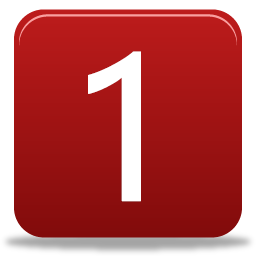
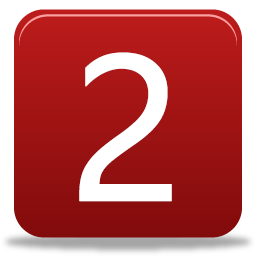
fix #4,5, 6, 7, 8, 10, 12

Changed region(s): [[0.2812, 0.1875, 0.6875, 0.8125]]

diff --git a/src/app/components/home/home.component.html b/src/app/components/home/home.component.html
@@ -40,6 +40,7 @@
         <div class="menu d-flex flex-wrap justify-content-center">
           <img id='btn-deviation' class="menu-img" src="assets/btn-deviation1.png" (click)="toggleDeviationMarker()">
           <img id='btn-footer' class="menu-img" src="assets/foot-left1.png" (click)="toggleFootMarker()">
+          <img id='btn-guideline' class="menu-img" src="assets/btn-guideline1.png" (click)="toggleGuideLine()">
         </div>
       </div>
 
@@ -53,27 +54,27 @@
 
           <div class="source-wrapper d-flex flex-column align-items-center">
             <div class="source mx-auto position-relative">
-              <img id="snapshots0" class="capture position-absolute" src="{{snapshots[3]}}">
+              <img id="snapshots3" class="capture position-absolute" src="assets/foot-background.png">
               <!-- <div id="camdemo" class="position-absolute" style="text-align: center; margin: 0 auto;"></div> -->
-              <img class="frame position-absolute" src="assets/source-background.png" (click)="onSelectSnapshot(0)">
+              <img class="frame position-absolute" src="assets/source-background.png" (click)="onSelectSnapshot(3)">
             </div>
             <span class="mt-1">Back, standing straight</span>
           </div>
 
           <div class="source-wrapper d-flex flex-column align-items-center">
             <div class="source mx-auto position-relative">
-              <img id="snapshots1" class="capture position-absolute" src="{{snapshots[4]}}">
+              <img id="snapshots4" class="capture position-absolute" src="assets/foot-background.png">
               <!-- <div id="camdemo" class="position-absolute" style="text-align: center; margin: 0 auto;"></div> -->
-              <img class="frame position-absolute" src="assets/source-background.png" (click)="onSelectSnapshot(1)">
+              <img class="frame position-absolute" src="assets/source-background.png" (click)="onSelectSnapshot(4)">
             </div>
             <span class="mt-1">Back, Kness Bent 45°</span>
           </div>
 
           <div class="source-wrapper d-flex flex-column align-items-center">
             <div class="source mx-auto position-relative">
-              <img id="snapshots2" class="capture position-absolute" src="{{snapshots[5]}}">
+              <img id="snapshots5" class="capture position-absolute" src="assets/foot-background.png">
               <!-- <div id="camdemo" class="position-absolute" style="text-align: center; margin: 0 auto;"></div> -->
-              <img class="frame position-absolute" src="assets/source-background.png" (click)="onSelectSnapshot(2)">
+              <img class="frame position-absolute" src="assets/source-background.png" (click)="onSelectSnapshot(5)">
             </div>
             <span class="mt-1">Back, raise toes up</span>
           </div>            
@@ -84,13 +85,28 @@
         <img id="main-board" src="assets/foot-background.png">
         <div id="camdemo" class="position-absolute d-flex" style="text-align: center; margin: 0 auto;"></div>
         <canvas id="line-board" class="position-absolute" width="800" height="600" (click)="setMarkerPosition($event)"></canvas>
+        <div ngDraggable #block="ngDraggable" id="t-line" class="guideline-top position-absolute" [ngDraggable] = "!isVisibleDeviationMarker" [bounds]="board" [inBounds]="inBounds" (edge)="checkEdge($event)" [preventDefaultEvent]="true">
+          <img src="assets/line1.png">
+        </div>
+        <div ngDraggable #block="ngDraggable" id="b-line" class="guideline-bottom position-absolute" [ngDraggable] = "!isVisibleDeviationMarker" [bounds]="board" [inBounds]="inBounds" (edge)="checkEdge($event)" [preventDefaultEvent]="true">
+          <img src="assets/line1.png">
+        </div>
+        <div ngDraggable #block="ngDraggable" id="l-line" class="guideline-left position-absolute" [ngDraggable] = "!isVisibleDeviationMarker" [bounds]="board" [inBounds]="inBounds"  (edge)="checkEdge($event)" [preventDefaultEvent]="true">
+          <img src="assets/line2.png">
+        </div>
+        <div ngDraggable #block="ngDraggable" id="r-line" class="guideline-right position-absolute" [ngDraggable] = "!isVisibleDeviationMarker" [bounds]="board" [inBounds]="inBounds" (edge)="checkEdge($event)" [preventDefaultEvent]="true">
+          <img src="assets/line2.png">
+        </div>
         <img id="savefile" class="btn-capture position-absolute" src="assets/btn-camera.png" (click)="captureImage()">
-        <img id="foot-marker" class="foot-marker position-absolute" src="assets/foot-marker.png" [ngStyle]="setFootMarker()">
-        <img id="deviation-marker" class="deviation-marker position-absolute" src="assets/deviation-marker.png" [ngStyle]="setDeviationMarker()">
-        <!-- <div ngDraggable #block="ngDraggable" class="foot-marker position-absolute" [ngDraggable] = "!isVisibleDeviationMarker" [bounds]="board" [inBounds]="inBounds" [ngStyle]="setFootMarker()" (edge)="checkEdge($event)" (started)="onFootMarkerStart($event)" (stopped)="onFootMarkerStop($event)" (movingOffset)="onFootMarkerMoving($event)"
-        [preventDefaultEvent]="true" (endOffset)="onFootMarkerMoveEnd($event)">
-          <img class="foot-marker " src="{{footmarker}}">
-        </div> -->
+        <img id="foot-marker" class="foot-marker position-absolute" src="assets/foot-marker.png">
+        <img id="deviation-marker" class="deviation-marker position-absolute" src="assets/deviation-marker.png">
+        <img id="remove" class="remove position-absolute" src="assets/btn-remove.png" (click) = "removeImage()">
+        <img id="num" class="num position-absolute" src="assets/num0.png">
+        <img id="valid" class="valid position-absolute" src="assets/invalid.png">
+        <div id="alert-message" class="alert-message position-absolute text-center">
+          <span>All required image captured.</span>
+          <span>please select image to continue!</span>
+        </div>        
       </div>
 
       <div class="right position-relative col-md-2 m-0 p-0">
@@ -99,9 +115,9 @@
 
           <div class="source-wrapper d-flex flex-column align-items-center">
             <div class="source mx-auto position-relative">
-              <img id="snapshots3" class="capture position-absolute" src="{{snapshots[0]}}">
+              <img id="snapshots0" class="capture position-absolute" src="assets/foot-background.png">
               <!-- <div id="camdemo" class="position-absolute" style="text-align: center; margin: 0 auto;"></div> -->
-              <img class="frame position-absolute" src="assets/source-background.png" (click)="onSelectSnapshot(3)">
+              <img class="frame position-absolute" src="assets/source-background.png" (click)="onSelectSnapshot(0)">
               
             </div>
             <span class="mt-1">Back, standing straight</span>
@@ -109,18 +125,18 @@
 
           <div class="source-wrapper d-flex flex-column align-items-center">
             <div class="source mx-auto position-relative">
-              <img id="snapshots4" class="capture position-absolute" src="{{snapshots[1]}}">
+              <img id="snapshots1" class="capture position-absolute" src="assets/foot-background.png">
               <!-- <div id="camdemo" class="position-absolute" style="text-align: center; margin: 0 auto;"></div> -->
-              <img class="frame position-absolute" src="assets/source-background.png" (click)="onSelectSnapshot(4)">
+              <img class="frame position-absolute" src="assets/source-background.png" (click)="onSelectSnapshot(1)">
             </div>
             <span class="mt-1">Back, Kness Bent 45°</span>
           </div>
 
           <div class="source-wrapper d-flex flex-column align-items-center">
             <div class="source mx-auto position-relative">
-              <img id="snapshots5" class="capture position-absolute" src="{{snapshots[2]}}">
+              <img id="snapshots2" class="capture position-absolute" src="assets/foot-background.png">
               <!-- <div id="camdemo" class="position-absolute" style="text-align: center; margin: 0 auto;"></div> -->
-              <img class="frame position-absolute" src="assets/source-background.png" (click)="onSelectSnapshot(5)">
+              <img class="frame position-absolute" src="assets/source-background.png" (click)="onSelectSnapshot(2)">
             </div>
             <span class="mt-1">Back, raise toes up</span>
           </div>            

diff --git a/src/index.html b/src/index.html
@@ -24,6 +24,8 @@
     var context = null;
     var isVisibleDeviationLine = false;
     var activeDeviationMarker = false;
+    var isVisibleGuideLine = false;
+    var selectedIndex = -1;
     var points = [
       {
         x: 400,
@@ -37,6 +39,23 @@
         x: 400,
         y: 300
       }
+    ]
+    var isPicture = [
+      false,
+      false,
+      false,
+      false,
+      false,
+      false,      
+    ];
+
+    var fileNames = [
+      '',
+      '',
+      '',
+      '',
+      '',
+      ''
     ]
 
     function exitApp() {
@@ -67,6 +86,7 @@
       if (!activeDeviationMarker) {
         clearCanvas();
         document.getElementById("deviation-marker").style.display = 'none';
+        document.getElementById('valid').style.display = 'none';
       }
     }
 
@@ -74,6 +94,23 @@
       isVisibleDeviationLine = !isVisibleDeviationLine;
       document.getElementById("btn-footer").src = isVisibleDeviationLine ? 'assets/foot-left.png' : 'assets/foot-left1.png';
       document.getElementById("foot-marker").src = isVisibleDeviationLine ? 'assets/foot-marker1.png' : 'assets/foot-marker.png';
+    }
+
+    function toggleGuideLine () {
+      isVisibleGuideLine = !isVisibleGuideLine;
+      if (isVisibleGuideLine) {
+        document.getElementById('btn-guideline').src = 'assets/btn-guideline.png';
+        document.getElementById('t-line').style.display = 'block';
+        document.getElementById('b-line').style.display = 'block';
+        document.getElementById('l-line').style.display = 'block';
+        document.getElementById('r-line').style.display = 'block';
+      } else {
+        document.getElementById('btn-guideline').src = 'assets/btn-guideline1.png';
+        document.getElementById('t-line').style.display = 'none';
+        document.getElementById('b-line').style.display = 'none';
+        document.getElementById('l-line').style.display = 'none';
+        document.getElementById('r-line').style.display = 'none';
+      }
     }
 
     function setMarkerPosition (x, y) {
@@ -111,11 +148,14 @@
           });
           WebCamera.attach('#camdemo');
           document.getElementById('savefile').style.display = 'block';
+          document.getElementById('num').style.display = 'flex';
+          document.getElementById('num').src = 'assets/num' + index + '.png'
           console.log("The camera has been started");
         }else{
           enabled = false;
           WebCamera.reset();
           document.getElementById('savefile').style.display = 'none';
+          document.getElementById('num').style.display = 'none';
           console.log("The camera has been disabled");
         }
       }
@@ -136,8 +176,27 @@
 
     function onSelectSnapshot(snapshotIndex) {
       if (!enabled) {
+        document.getElementById('alert-message').style.display = 'none';
         document.getElementById("main-board").src= document.getElementById("snapshots"+snapshotIndex).src;
+        document.getElementById('num').style.display = 'flex';
+        document.getElementById('num').src = 'assets/num' + snapshotIndex + '.png'
+        document.getElementById('remove').style.display = isPicture[snapshotIndex] ? 'block' : 'none';
+        selectedIndex = isPicture[snapshotIndex] ? snapshotIndex : -1;
       }
+    }
+
+    function removeImage() {
+      var filePath = path.join('snapshots');
+      var fileName = fileNames[selectedIndex];
+      if (fs.existsSync(filePath)) {
+        fs.unlink(fileName, function(err) {
+          if (err) console.log(err);
+          fileNames[selectedIndex] = '';
+          isPicture[selectedIndex] = false;
+          document.getElementById("snapshots"+selectedIndex).src = 'assets/foot-background.png';
+          onSelectSnapshot(selectedIndex);
+        });
+      };
     }
 
     function newAnalysis() {
@@ -181,13 +240,16 @@
                   console.log("Cannot save the file :'( time to cry !");
                 }else{
                   console.log("Image saved succesfully");
+                  fileNames[index] = fileName;
                   document.getElementById("snapshots"+index).src= 'file:///'+fileName;
+                  isPicture[index] = true;
                   index++;
                   if (index === 6) {
                     if (enabled) {
                       enabled = false;
                       WebCamera.reset();
                       document.getElementById('savefile').style.display = 'none';
+                      document.getElementById('alert-message').style.display = 'flex';
                       console.log("The camera has been disabled");
                     }
                   }
@@ -210,7 +272,6 @@
     }
 
     function drwaline() {
-      console.log('draw');
       clearCanvas();
       context.strokeStyle = '#000000';
       // context.lineWidth = 1;
@@ -224,7 +285,9 @@
       var x = points[2].x - points[1].x;
       var y = points[1].y - points[2].y;
       var degrees = Math.atan(x/y) * 180 / Math.PI;
-      document.getElementById("deviation-marker").src = (degrees > 10 || degrees < -10) ? 'assets/deviation-marker.png' : 'assets/deviation-marker1.png';
+      document.getElementById('valid').style.display = 'block';
+      document.getElementById('deviation-marker').src = (degrees > 10 || degrees < -10) ? 'assets/deviation-marker.png' : 'assets/deviation-marker1.png';
+      document.getElementById('valid').src = (degrees > 10 || degrees < -10) ? 'assets/invalid.png' : 'assets/valid.png';
 
       document.getElementById('rightdev').innerText = degrees.toFixed(2) + '°';
       document.getElementById('leftdev').innerText = (-degrees).toFixed(2) + '°';

diff --git a/src/app/components/home/home.component.scss b/src/app/components/home/home.component.scss
@@ -99,6 +99,50 @@
           width: 800px;
           height: 600px;
         }
+        .guideline-right{
+          display: none;
+          width: 20px;
+          height: 600px;
+          right: 0;
+          top: 0;
+          img{
+            width: 100%;
+            height: 100%;
+          }
+        }
+        .guideline-left{
+          display: none;
+          width: 20px;
+          height: 600px;
+          left: 0;
+          top: 0;
+          img{
+            width: 100%;
+            height: 100%;
+          }
+        }
+        .guideline-top{
+          display: none;
+          width: 800px;
+          height: 20px;
+          left: 0;
+          top: 0;
+          img{
+            width: 100%;
+            height: 100%;
+          }
+        }
+        .guideline-bottom{
+          display: none;
+          width: 800px;
+          height: 20px;
+          left: 0;
+          bottom: 0;
+          img{
+            width: 100%;
+            height: 100%;
+          }
+        }
         .btn-capture{
           width: 80px;
           height: 80px;
@@ -118,6 +162,42 @@
           top: calc(50% - 40px);
           left: calc(50% - 40px);
           display: none;
+        }
+        .remove {
+          width: 70px;
+          height: 70px;
+          right: 0;
+          top: calc(50% - 35px);
+          display: none;
+        }
+        .valid{
+          width: 70px;
+          height: 70px;
+          bottom: 0;
+          left: 0;
+          display: none;
+        }
+        .num{
+          width: 70px;
+          height: 70px;
+          bottom: 0;
+          right: 0;
+          display: none;
+        }
+        .alert-message {
+          width: 100%;
+          height: 100%;
+          top: 0;
+          left: 0;
+          background-color: #000;
+          display: none;
+          flex-direction: column;
+          justify-content: center;
+          span{
+            color: #fff;
+            font-size: 25px;
+            font-weight: 500;
+          }
         }
       }
       .right{

diff --git a/src/app/components/home/home.component.ts b/src/app/components/home/home.component.ts
@@ -11,6 +11,8 @@ declare var exitApp: Function;
 declare var toggleDeviationMarker: Function;
 declare var toggleFootMarker: Function;
 declare var setMarkerPosition: Function;
+declare var removeImage: Function;
+declare var toggleGuideLine: Function;
 
 @Component({
   selector: 'app-home',
@@ -20,7 +22,6 @@ declare var setMarkerPosition: Function;
 export class HomeComponent implements OnInit {
 
   isCameraProcessing: Boolean = false;
-  DEFAULT_SNAPSHOTS: String = 'assets/foot-background.png';
   snapshots: any = [];
   defaultoffsetx: any = 360;
   defaultoffsety: any = 260;
@@ -40,10 +41,6 @@ export class HomeComponent implements OnInit {
 
   constructor( private router: Router) {
     initialize();
-    for (let i = 0; i < 6; i++) {
-      this.snapshots.push(this.DEFAULT_SNAPSHOTS);
-    }
-
   }
 
   exitApp() {
@@ -56,6 +53,14 @@ export class HomeComponent implements OnInit {
 
   toggleFootMarker() {
     toggleFootMarker();
+  }
+
+  toggleGuideLine() {
+    toggleGuideLine();
+  }
+
+  removeImage() {
+    removeImage();
   }
 
   setMarkerPosition(event) {
